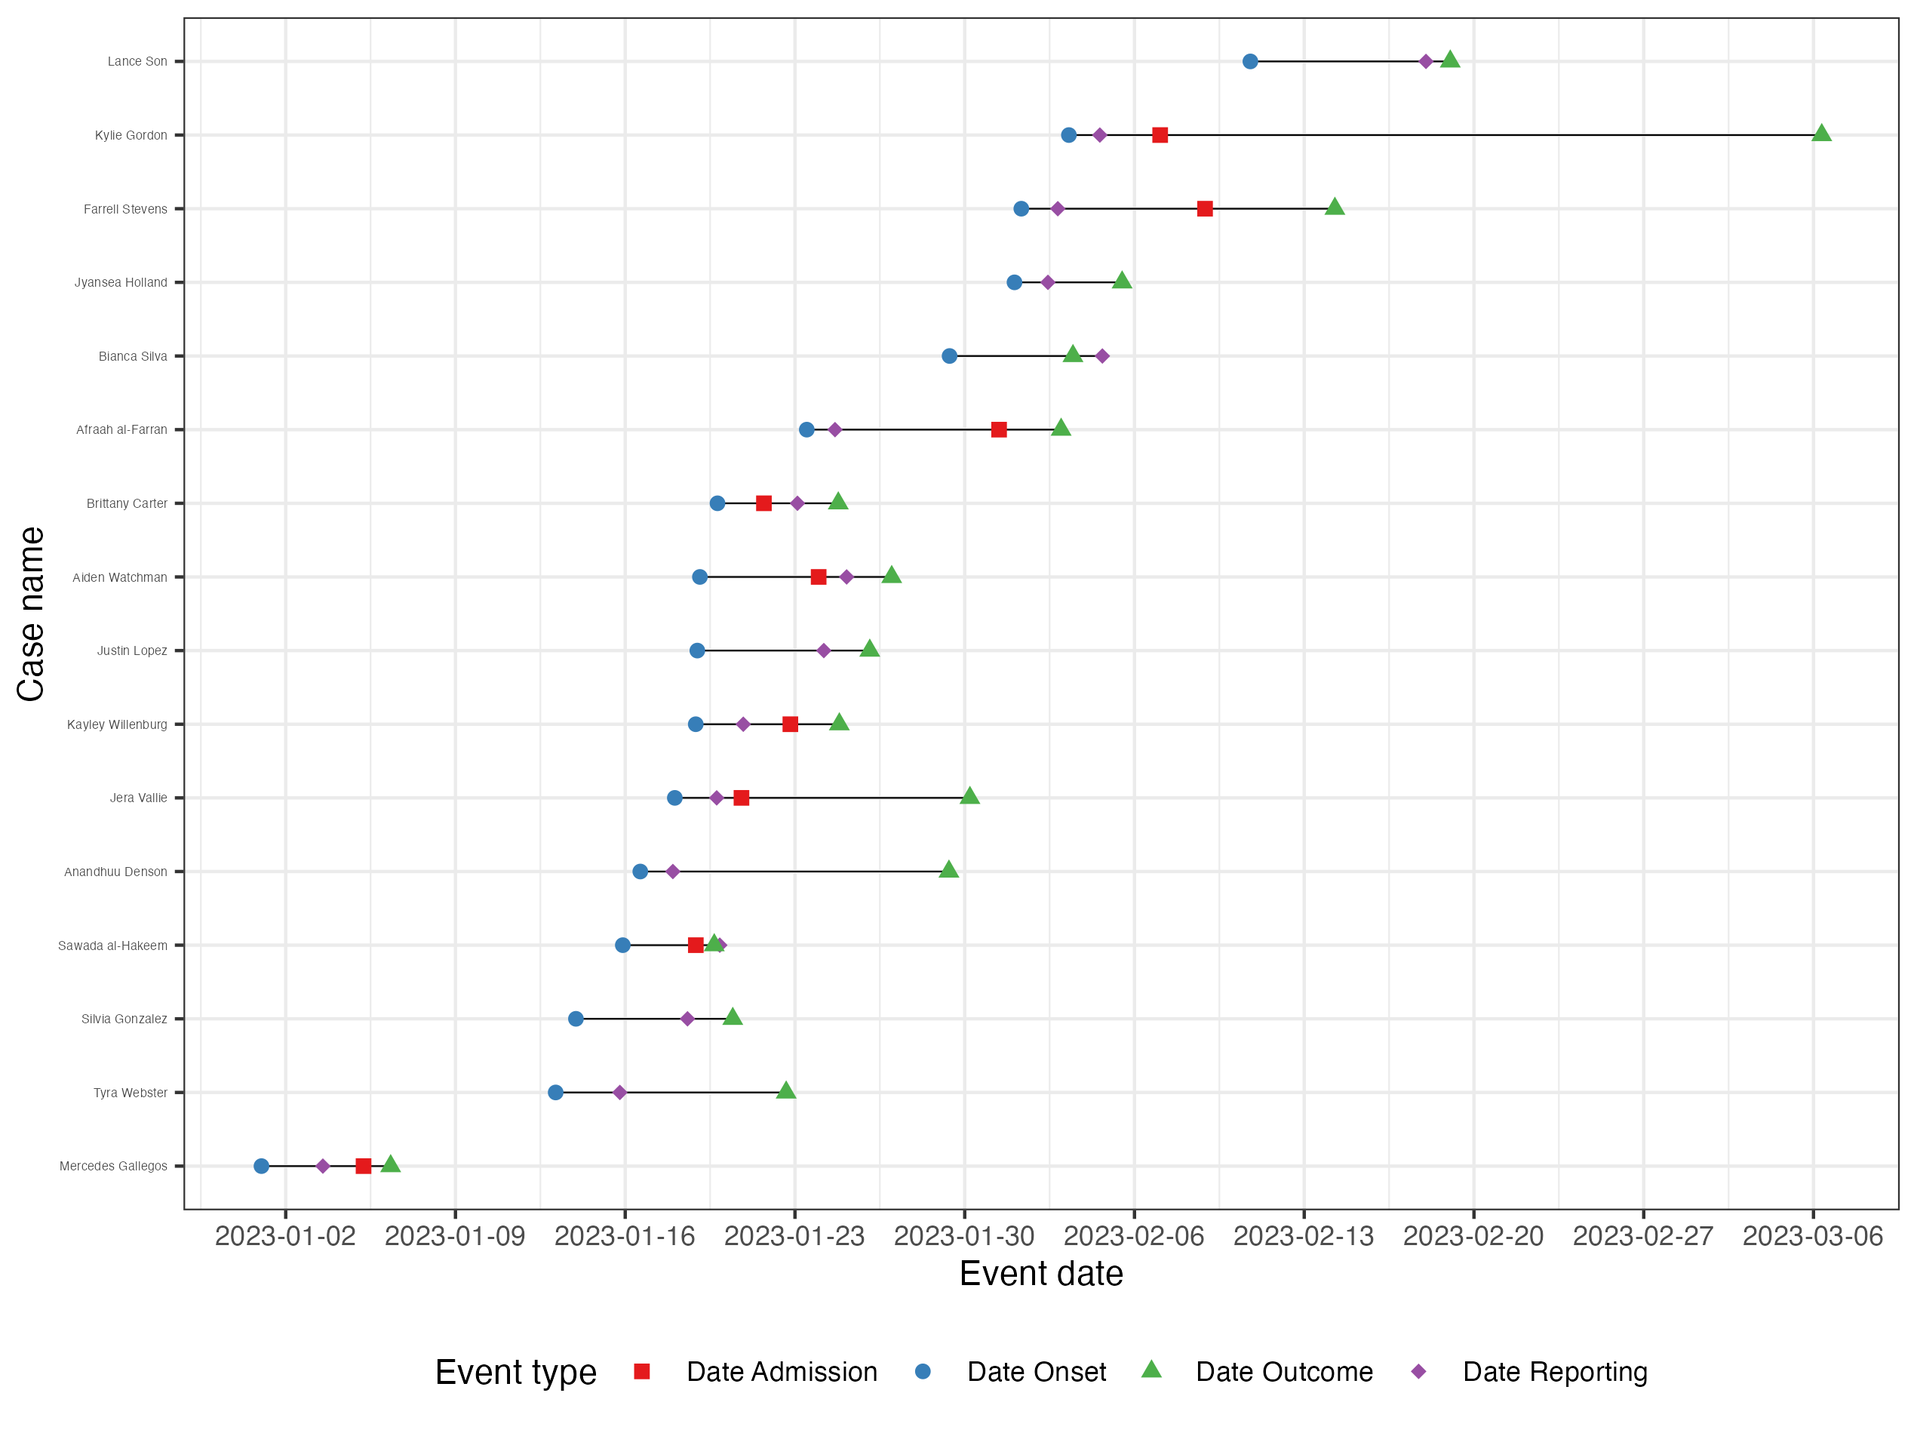
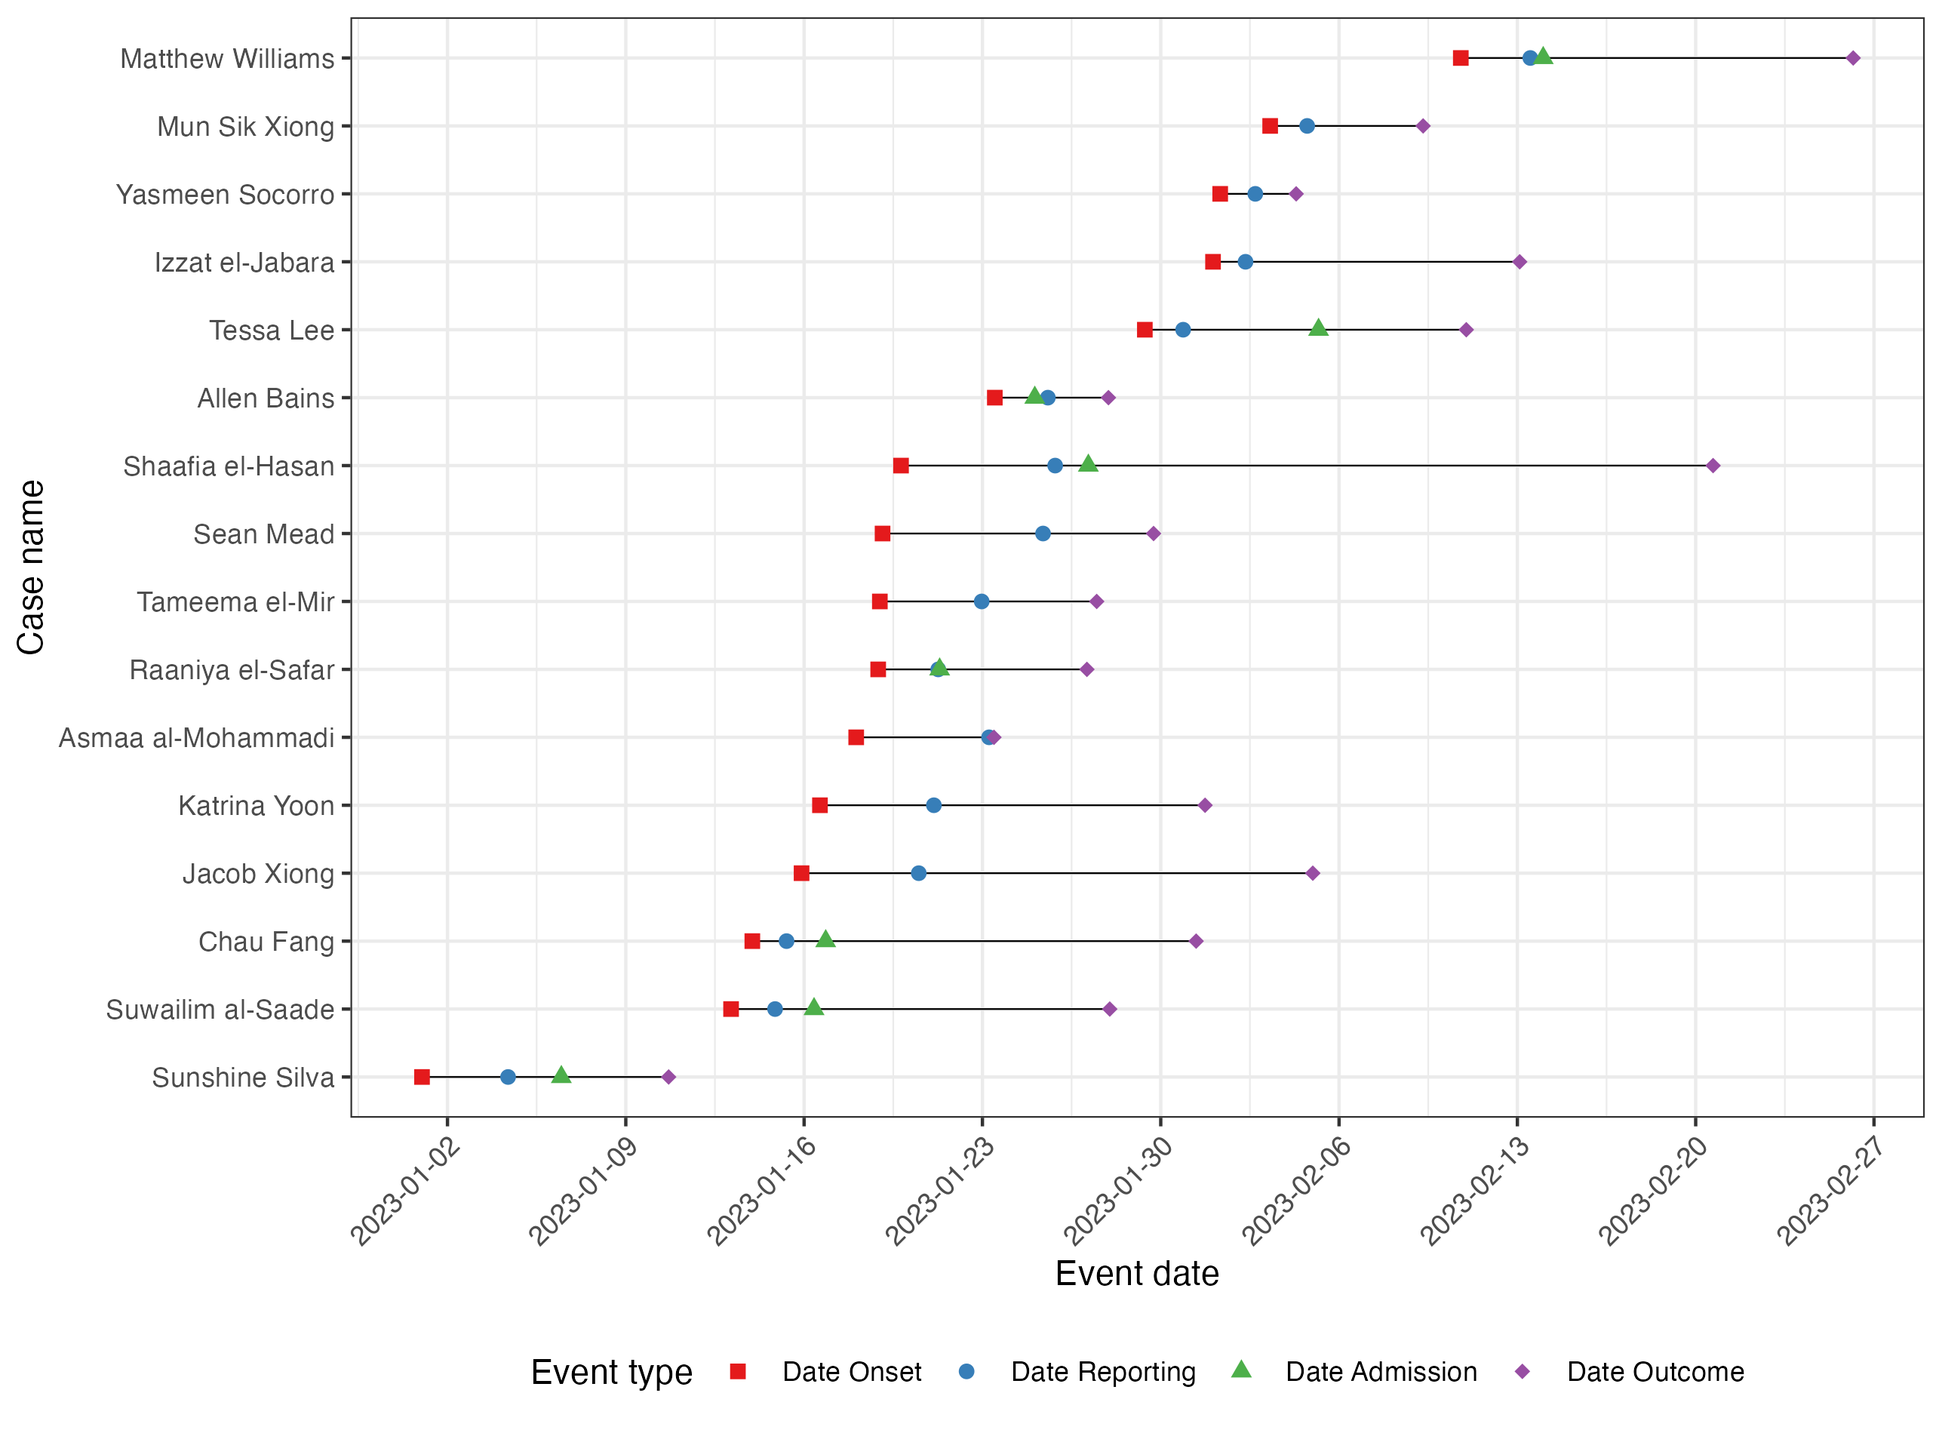
Updates to JOSS manuscript from peer review (#274)
* try and fix \ref

* try \autoref with a single image

* try and trigger GHA

* remove figure legend

* try autoref with smaller fig width

* try with second plot

* split into three plots

* add links to vis-linelist vignette and figures script

* fix links in figure legends

* fix closing square bracket in figure legends

* remove info to reproduce plots from main text

* reorder legend in multi-dot-plot.png

* add point to legend about names being simulated in multi-dot-plot figure

diff --git a/joss/paper.md b/joss/paper.md
@@ -35,13 +35,13 @@ Epidemic and pandemic preparedness and analytics response requires robust analys
 
 ## Statement of need
 
-Synthetic data, which is generated by a known simulation process, is useful in many scenarios where a "ground truth" is required, including teaching concepts on data collection, data cleaning and data visualisation; and testing analysis methods for precision, adequacy and robustness. In the analysis of infectious disease outbreaks, termed _outbreak analytics_ [@polonskyOutbreakAnalyticsDeveloping2019a; @jombartWhyDevelopmentOutbreak2021; @carterHowImproveOutbreak2021], one of the most common forms of data is a line list. This is a tabular dataset where each row corresponds to a single case in the outbreak, recording information on person, place and time. Information for each case can include, but is not limited to, personal information (name, age, sex), key event dates (date of symptom onset, date of hospitalisation, date of outcome), clinical outcomes, and geographic information (coordinates, administrative area). Understanding and characterising the transmissibility and severity of infectious disease outbreaks typically use line list data [@coriKeyDataOutbreak2017]. 
+Synthetic data, which is generated by a known simulation process, is useful in many scenarios where a "ground truth" is required, including teaching concepts on data collection, data cleaning and data visualisation; and testing analysis methods for precision, adequacy and robustness. In the analysis of infectious disease outbreaks, termed _outbreak analytics_ [@polonskyOutbreakAnalyticsDeveloping2019a; @jombartWhyDevelopmentOutbreak2021; @carterHowImproveOutbreak2021], one of the most common forms of data is a line list. This is a tabular dataset where each row corresponds to a single case in the outbreak, recording information on person, place and time. Information for each case can include, but is not limited to, personal information (name, age, sex), key event dates (date of symptom onset, date of hospitalisation, date of outcome) (\autoref{fig:events}), clinical outcomes, and geographic information (coordinates, administrative area). Understanding and characterising the transmissibility and severity of infectious disease outbreaks typically use line list data [@coriKeyDataOutbreak2017]. 
 
-In the ecosystem of R packages for epidemiology, there are a range of tools for simulating and analysing line list data [@jombartCRANTaskView2025], however, there are no stable, actively maintained and tested R packages that simulate epidemiologically realistic line list data[^1]. The `simulist` R package offers functionality to simulate outbreak data (line list and contact tracing) with options for users to define the epidemiological and demographic characteristics of the outbreak, while also being designed on the principle of maximum interoperability with other related R packages, e.g. `epicontacts` [@campbellEpicontactsHandlingVisualisation2017], `epiparameter` [@lambertEpiparameterClassesHelper2025], and `cleanepi` [@maneCleanepiCleanStandardize2024]. Accepting epidemiological parameters directly from `epiparameter`, an R package with a library of parameter estimates from the literature, facilitates generating synthetic data with the characteristics of past outbreaks.
+In the ecosystem of R packages for epidemiology, there are a range of tools for simulating and analysing line list data [@jombartCRANTaskView2025], however, there are no stable, actively maintained and tested R packages that simulate epidemiologically realistic line list data[^1]. The `simulist` R package offers functionality to simulate outbreak data (line list and contact tracing) with options for users to define the epidemiological and demographic characteristics of the outbreak (\autoref{fig:incidence}), while also being designed on the principle of maximum interoperability with other related R packages, e.g. `epicontacts` [@campbellEpicontactsHandlingVisualisation2017], `epiparameter` [@lambertEpiparameterClassesHelper2025], and `cleanepi` [@maneCleanepiCleanStandardize2024]. Accepting epidemiological parameters directly from `epiparameter`, an R package with a library of parameter estimates from the literature, facilitates generating synthetic data with the characteristics of past outbreaks.
 
 ## State of the field
 
-The majority of outbreak analytics uses R [@rcoreteamLanguageEnvironmentStatistical2025] and R packages to answer common epidemiological questions in an outbreak [@tamayocuartero100DayMission2025]. From basic data wrangling and data science using tools such as the tidyverse [@wickhamWelcomeTidyverse2019], to using advanced methods, for example nowcasting/forecasting of transmissibility [@abbottEstimatingTimevaryingReproduction2020a]  This is accompanied by several initiatives that teach epidemiology using R tooling [@batraEpidemiologistHandbook2021; @vallecamposEpiverseTRACETutorials2025] resulting in an active ecosystem of open-source tooling, teaching, and community engagement [@morganWHOHubPandemic2022], for example the [epinowcast community](https://www.epinowcast.org/).
+The majority of outbreak analytics uses R [@rcoreteamLanguageEnvironmentStatistical2025]. There are many R packages that help to answer common epidemiological questions in an outbreak [@tamayocuartero100DayMission2025]. From basic data wrangling and data science tools such as the tidyverse [@wickhamWelcomeTidyverse2019], to using advanced methods, for example nowcasting/forecasting of transmissibility [@abbottEstimatingTimevaryingReproduction2020a]  Additionally, there are several initiatives that teach epidemiology using R tooling [@batraEpidemiologistHandbook2021; @vallecamposEpiverseTRACETutorials2025], resulting in an active ecosystem of open-source tooling, teaching, and community engagement [@morganWHOHubPandemic2022], for example the [epinowcast community](https://www.epinowcast.org/).
 
 However, to our knowledge, there are no existing tools that offer an easy method to generate synthetic outbreak data, with a defined and highly customisable simulation model. The `simulist` R package, part of the Epiverse-TRACE ecosystem [@data.orgEpiverse2022], aims to fill this niche by offering line list simulation functionality that includes: custom parameterisation of epidemiological delay distribution, population-wide or age-stratified hospitalisation and death risks, uniform or age-structured populations, constant or time-varying case fatality risks, and customisable proportions of case types and contact tracing follow-up. This is complimented by post-processing to enable emulation of real-time outbreak dynamics (e.g. right-truncation and outbreak snapshotting) and messying data to mimic the types of issues encounter by people working with empirical outbreak data.
 
@@ -49,9 +49,11 @@ However, to our knowledge, there are no existing tools that offer an easy method
 
 `simulist` offers two modules of functionality: 1) simulation and 2) post-processing. In the simulation module there is a function for simulating a line list, a function for simulating contact tracing data, and a function for simulating both. Respectively these output, an outbreak line list (`data.frame`), a contact tracing data set (`data.frame`), and lastly both an outbreak line list and contact tracing data set that are linked (i.e. from the same outbreak) (`list` of `data.frame`s). All simulation functions internally call a branching process model [@farringtonBranchingProcessModels2003a] with the option of network adjusted contact patterns to account for the fact that choosing someone at random by following up a contact chooses individuals with a probability proportional to their number of contacts [@alexanderRiskFactorsEvolutionary2010; @blumbergDetectingDifferentialTransmissibilities2014]. No data is stored in the package, all outbreak data is generated upon calling a simulation function. All simulation functions can be run without requiring the user to specify any parameters (i.e. function arguments, see function documentation for defaults), but all functions offer a range of arguments to modify the characteristics of the outbreak data. The parameters that can be specified by the user are organised into two levels. The parameters that control: the branching process, key epidemiological delays, risks, and demographic parameters are function arguments because they are more likely to be adjusted by users. Parameters thought to rarely require changing, except for advanced use cases are passed to the function via a configuration list, to prevent the function signature being overly complex. A helper function is provided to automatically generate the configuration list with sensible defaults, and allow easy modification, and this is called by default in the simulation functions.
 
-![Part a. The daily incidence of cases, hospitalisations and deaths, facetted by sex for a simulated outbreak.](incidence.png){ width=33% } ![Part b. A contact network for a simulated outbreak](network.png){ width=33% } ![Part c. A multi-dot plot for the events in a simulated line list. \label{fig:simulist}](multi-dot-plot.png){ width=33% }
+![A connected dot plot of the timeline of events in a simulated line list. Data is simulated and all case names are randomly generated. See _Visualising simulated data vignette_ at <https://epiverse-trace.github.io/simulist/articles/vis-linelist.html> or in R (`vignette("vis-linelist", package = "simulist")`) for more information.\label{fig:events}](multi-dot-plot.png)
 
-Figure 1: (a) daily incidence of symptom onset, hospital admission and deaths facetted by sex for a simulated line list and aggregated and plotted with `incidence2` [@taylorIncidence2ComputeHandle2020]. (b) an `<epicontacts>` network plotted after converted from a simulated line list and contact tracing dataset (this network is interactive when rendered in an IDE or online). (c) a connected dot plot of the events in a simulated line list. All code to reproduce the plots can be found at https://github.com/epiverse-trace/simulist/blob/joss/joss/joss-figs.R, and more examples of these types of plots can be found in the [Visualising simulated data vignette](https://epiverse-trace.github.io/simulist/articles/vis-linelist.html).
+![The daily incidence of symptom onset, hospital admission and deaths facetted by sex for a simulated line list and aggregated and plotted with `incidence2` [@taylorIncidence2ComputeHandle2020]. See _Visualising simulated data vignette_ at <https://epiverse-trace.github.io/simulist/articles/vis-linelist.html> or in R (`vignette("vis-linelist", package = "simulist")`) for more information.\label{fig:incidence}](incidence.png) 
+
+![A simulated contact network (line list and contact tracing dataset), converted to an `<epicontacts>` object and plotted with `epicontacts` (this network is interactive when rendered in an IDE or online). See _Visualising simulated data vignette_ at <https://epiverse-trace.github.io/simulist/articles/vis-linelist.html> or in R (`vignette("vis-linelist", package = "simulist")`) for more information.\label{fig:network}](network.png)
 
 Here we highlight some of the simulation functionality available:
 
@@ -59,7 +61,7 @@ Here we highlight some of the simulation functionality available:
 
 ***Age-structured population***: the outbreak simulation in `simulist` assumes a uniform population age between a lower and upper age range (0 and 90 by default). However, in order to accurately generate synthetic data for outbreak scenarios where the population age structure is known this can be input into the outbreak simulation, again using a user-defined `data.frame` to flexibility specify an arbitrary number of age groups and proportions. See the [Age-structured population vignette](https://epiverse-trace.github.io/simulist/articles/age-struct-pop.html) for more details and a worked example.
 
-***Time-varying case fatality risk***: In addition to the ability to age-stratify hospitalisation and death risks, as outlined above, it is also possible to vary the fatality risk through time in the outbreak simulation. This is setup to accept a user-defined R function that takes the baseline risk and the simulation time ($t$) and calculates the fatality risk at time $t$. This is again setup in such a way as to maximise flexibility to the users and allows continuously varying (monotonic and non-monotonic functions)or discrete step-wise functions. The aim of this functionality is to phenomenologically mimic vaccination or non-pharmaceutical interventions without mechanistically modelling these in the simulation model. See the [Time-varying case fatality risk vignette](https://epiverse-trace.github.io/simulist/articles/time-varying-cfr.html) for more explanation and examples.
+***Time-varying case fatality risk***: In addition to the ability to age-stratify hospitalisation and death risks, as outlined above, it is also possible to vary the fatality risk through time in the outbreak simulation. This is setup to accept a user-defined R function that takes the baseline risk and the simulation time ($t$) and calculates the fatality risk at time $t$. This is again setup in such a way as to maximise flexibility to the users and allows continuously varying (monotonic and non-monotonic functions) or discrete step-wise functions. The aim of this functionality is to phenomenologically mimic vaccination or non-pharmaceutical interventions without mechanistically modelling these in the simulation model. See the [Time-varying case fatality risk vignette](https://epiverse-trace.github.io/simulist/articles/time-varying-cfr.html) for more explanation and examples.
 
 ***Simulating empirical outbreak data***: The outbreak simulation produces exact, standardised, and complete data, hereafter referred to as _ideal_ data. However, in reality those working with line list data often encounter a myriad of issues where the data they have available differs from the _ideal_ data. In `simulist` we offer multiple post-processing functions that modify _ideal_ line list data to include empirical characteristics. Currently `simulist` post-processing functions can introduce 1) real-time outbreak data artifacts such as right-truncation, 2) inconsistent, missing, and duplicated data, so-called _messy_ data, and 3) censor dates to the nearest time unit (e.g. day, week, etc.) as well as introduce a _weekend effect_ where reporting is lower on weekends [@gallagherIdentificationAttributionWeekly2025].
 
@@ -67,7 +69,7 @@ Other functionality is documented in the [Get Started vignette](https://epiverse
 
 ## Package Design
 
-The `simulist` package is developed around certain design principles: _interoperability_ with other R packages for upstream (e.g. `epiparameter`) or downstream (e.g. `epicontacts` \autoref{fig:simulist}) use; _ease of use_ of functions (all simulation functions have sensible defaults for use out-of-the-box); and _transparency_, all design decisions are documented in the [Design Principles vignette](https://epiverse-trace.github.io/simulist/articles/design-principles.html) and help developer onboarding. Simulation functions output a `data.frame` (or `list` of `data.frame`s) enabling users to easily transform and manipulate the data, for example with the tidyverse R packages; and post-processing functions are compatible with `data.frame` subclasses (e.g. `<tibble>` or `<data.table>`). 
+The `simulist` package is developed around certain design principles: _interoperability_ with other R packages for upstream (e.g. `epiparameter`) or downstream (e.g. `epicontacts` \autoref{fig:network}) use; _ease of use_ of functions (all simulation functions have sensible defaults for use out-of-the-box); and _transparency_, all design decisions are documented in the [Design Principles vignette](https://epiverse-trace.github.io/simulist/articles/design-principles.html) and help developer onboarding. Simulation functions output a `data.frame` (or `list` of `data.frame`s) enabling users to easily transform and manipulate the data, for example with the tidyverse R packages; and post-processing functions are compatible with `data.frame` subclasses (e.g. `<tibble>` or `<data.table>`). 
 
 ## Other resources
 
@@ -75,7 +77,7 @@ The `simulist` package is developed around certain design principles: _interoper
 
 ## Availability
 
-The `simulist` R package is open-source and licensed under MIT. The source code is available on GitHub. The package can be downloaded from [CRAN](https://cran.r-project.org/package=simulist), [R-universe](https://epiverse-trace.r-universe.dev/simulist) or [GitHub](https://github.com/epiverse-trace/simulist). 
+The `simulist` R package is open-source and licensed under MIT. The source code is available on GitHub. The package can be downloaded from [CRAN](https://cran.r-project.org/package=simulist), [R-universe](https://epiverse-trace.r-universe.dev/simulist) or [GitHub](https://github.com/epiverse-trace/simulist). Code to reproduce figures in this paper can be found at the [`simulist` GitHub repository](https://github.com/epiverse-trace/simulist/blob/6d2a1fdd5ea963f1cd1a60c1a0f834997e333692/joss/joss-figs.R).
 
 # Acknowledgements
 
